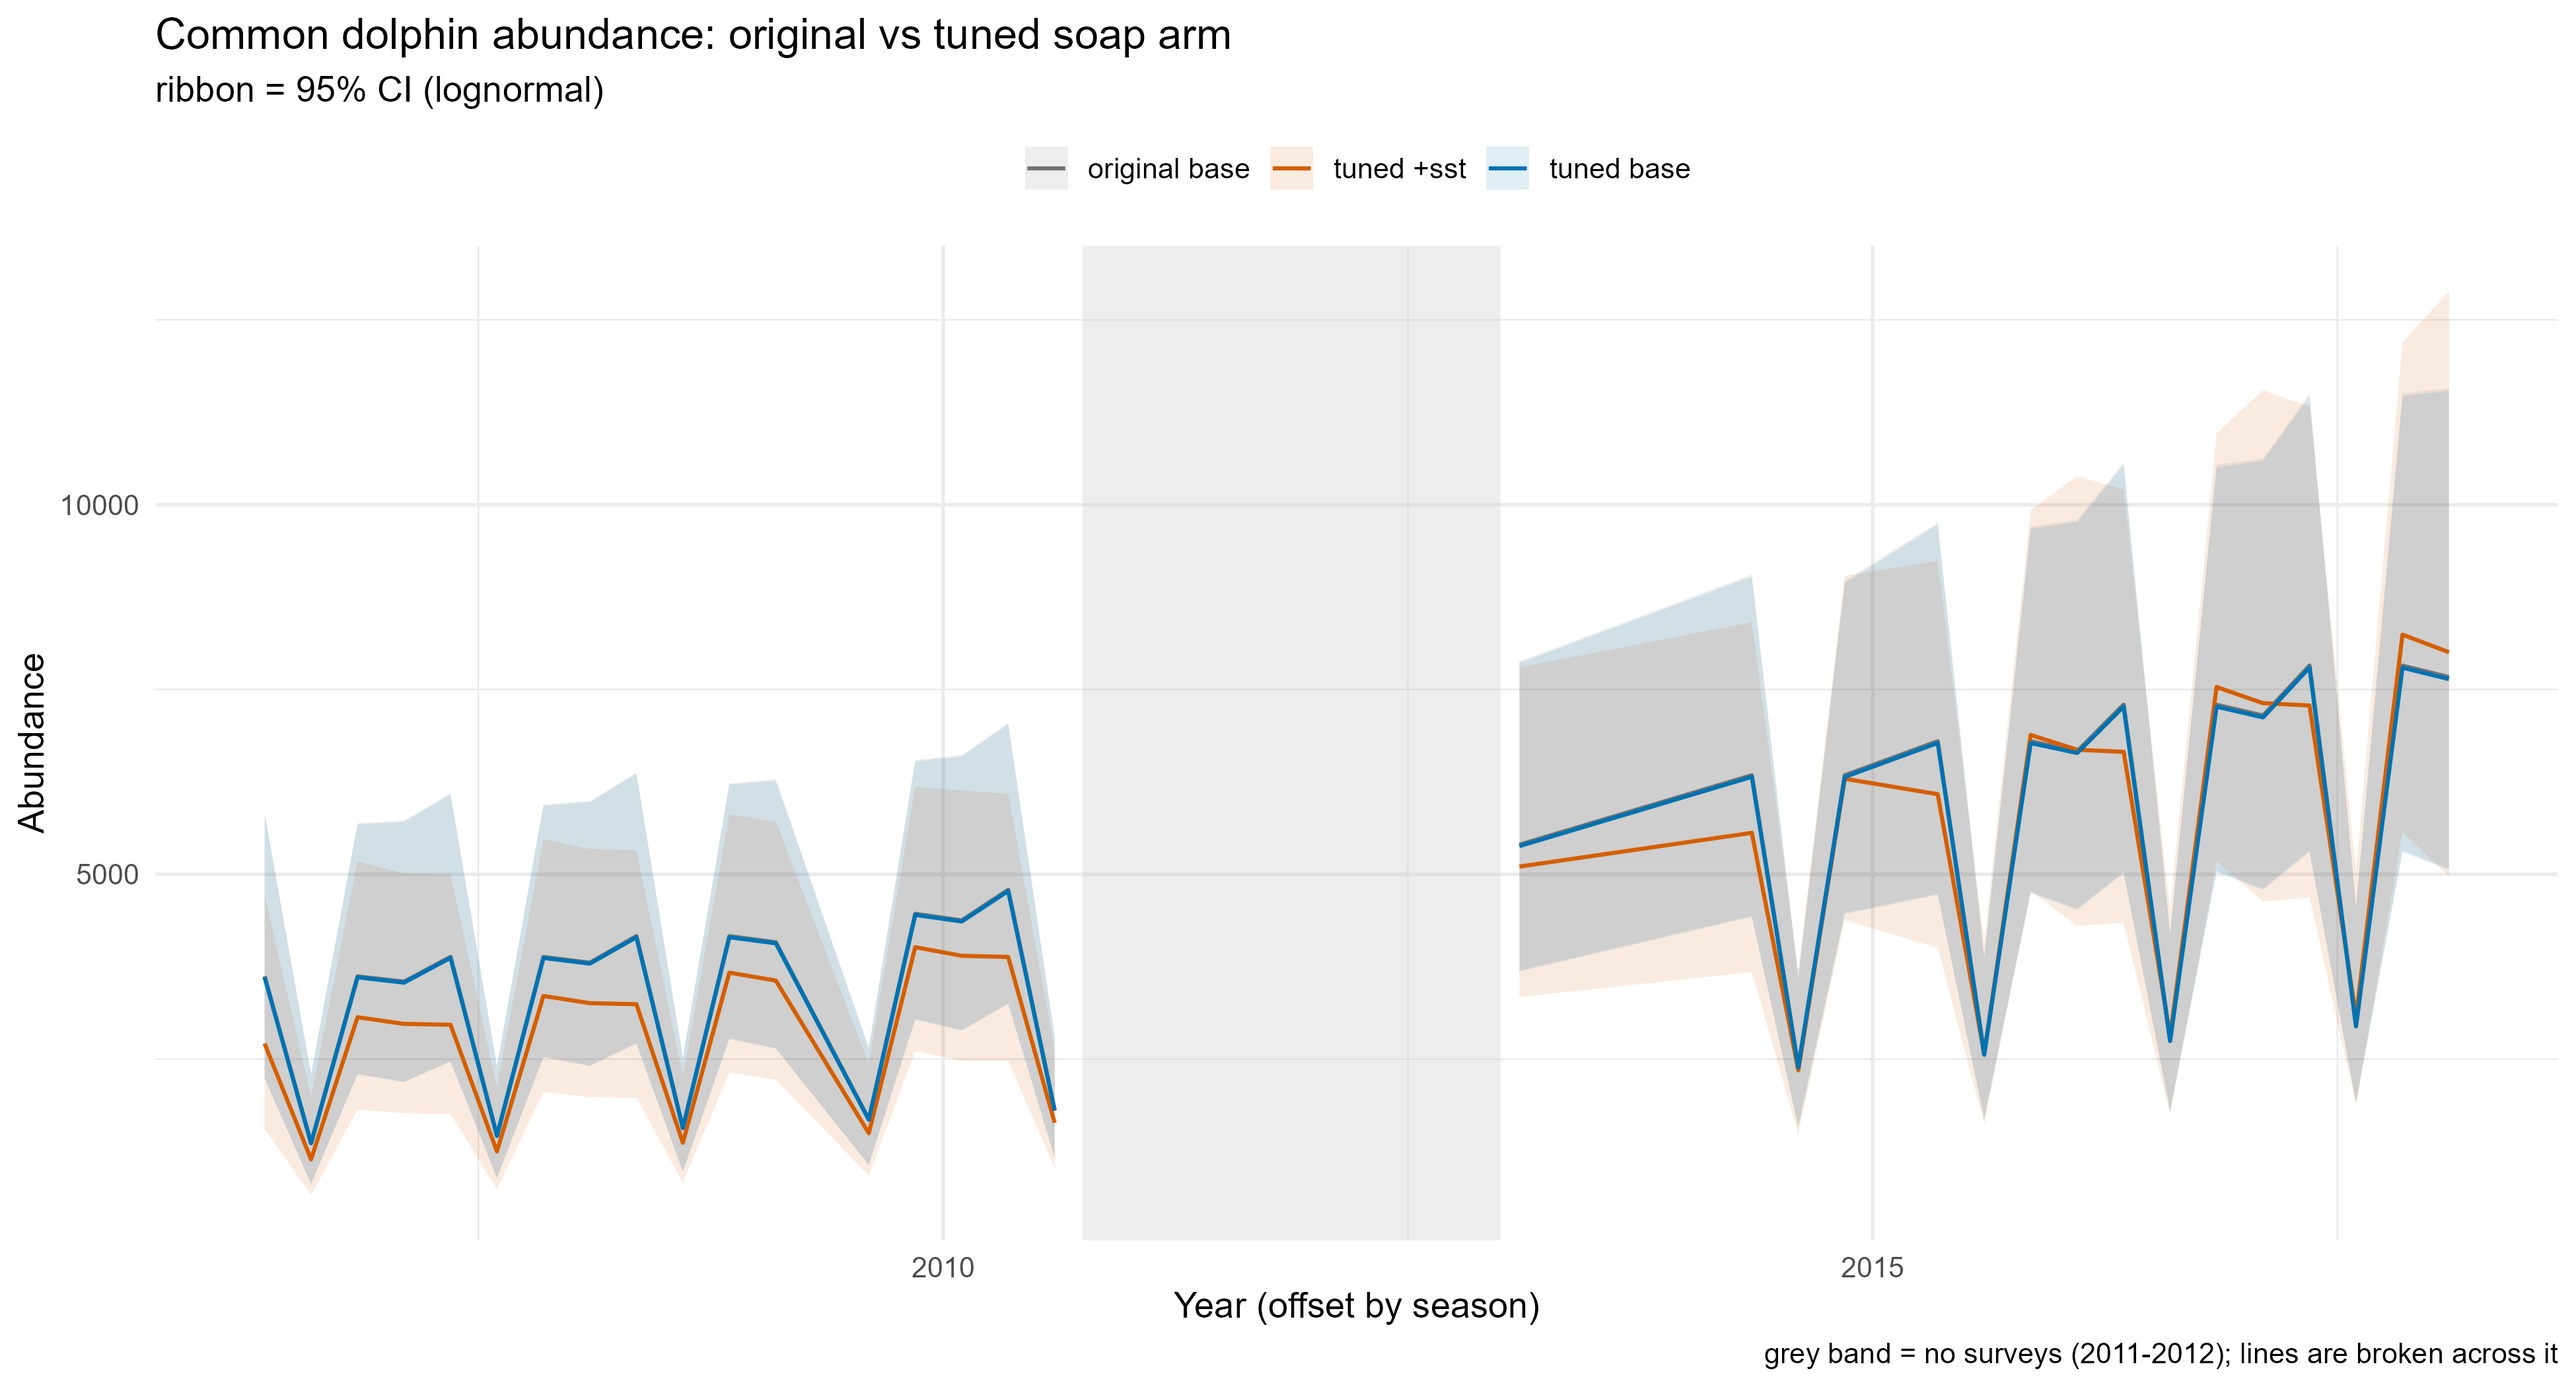
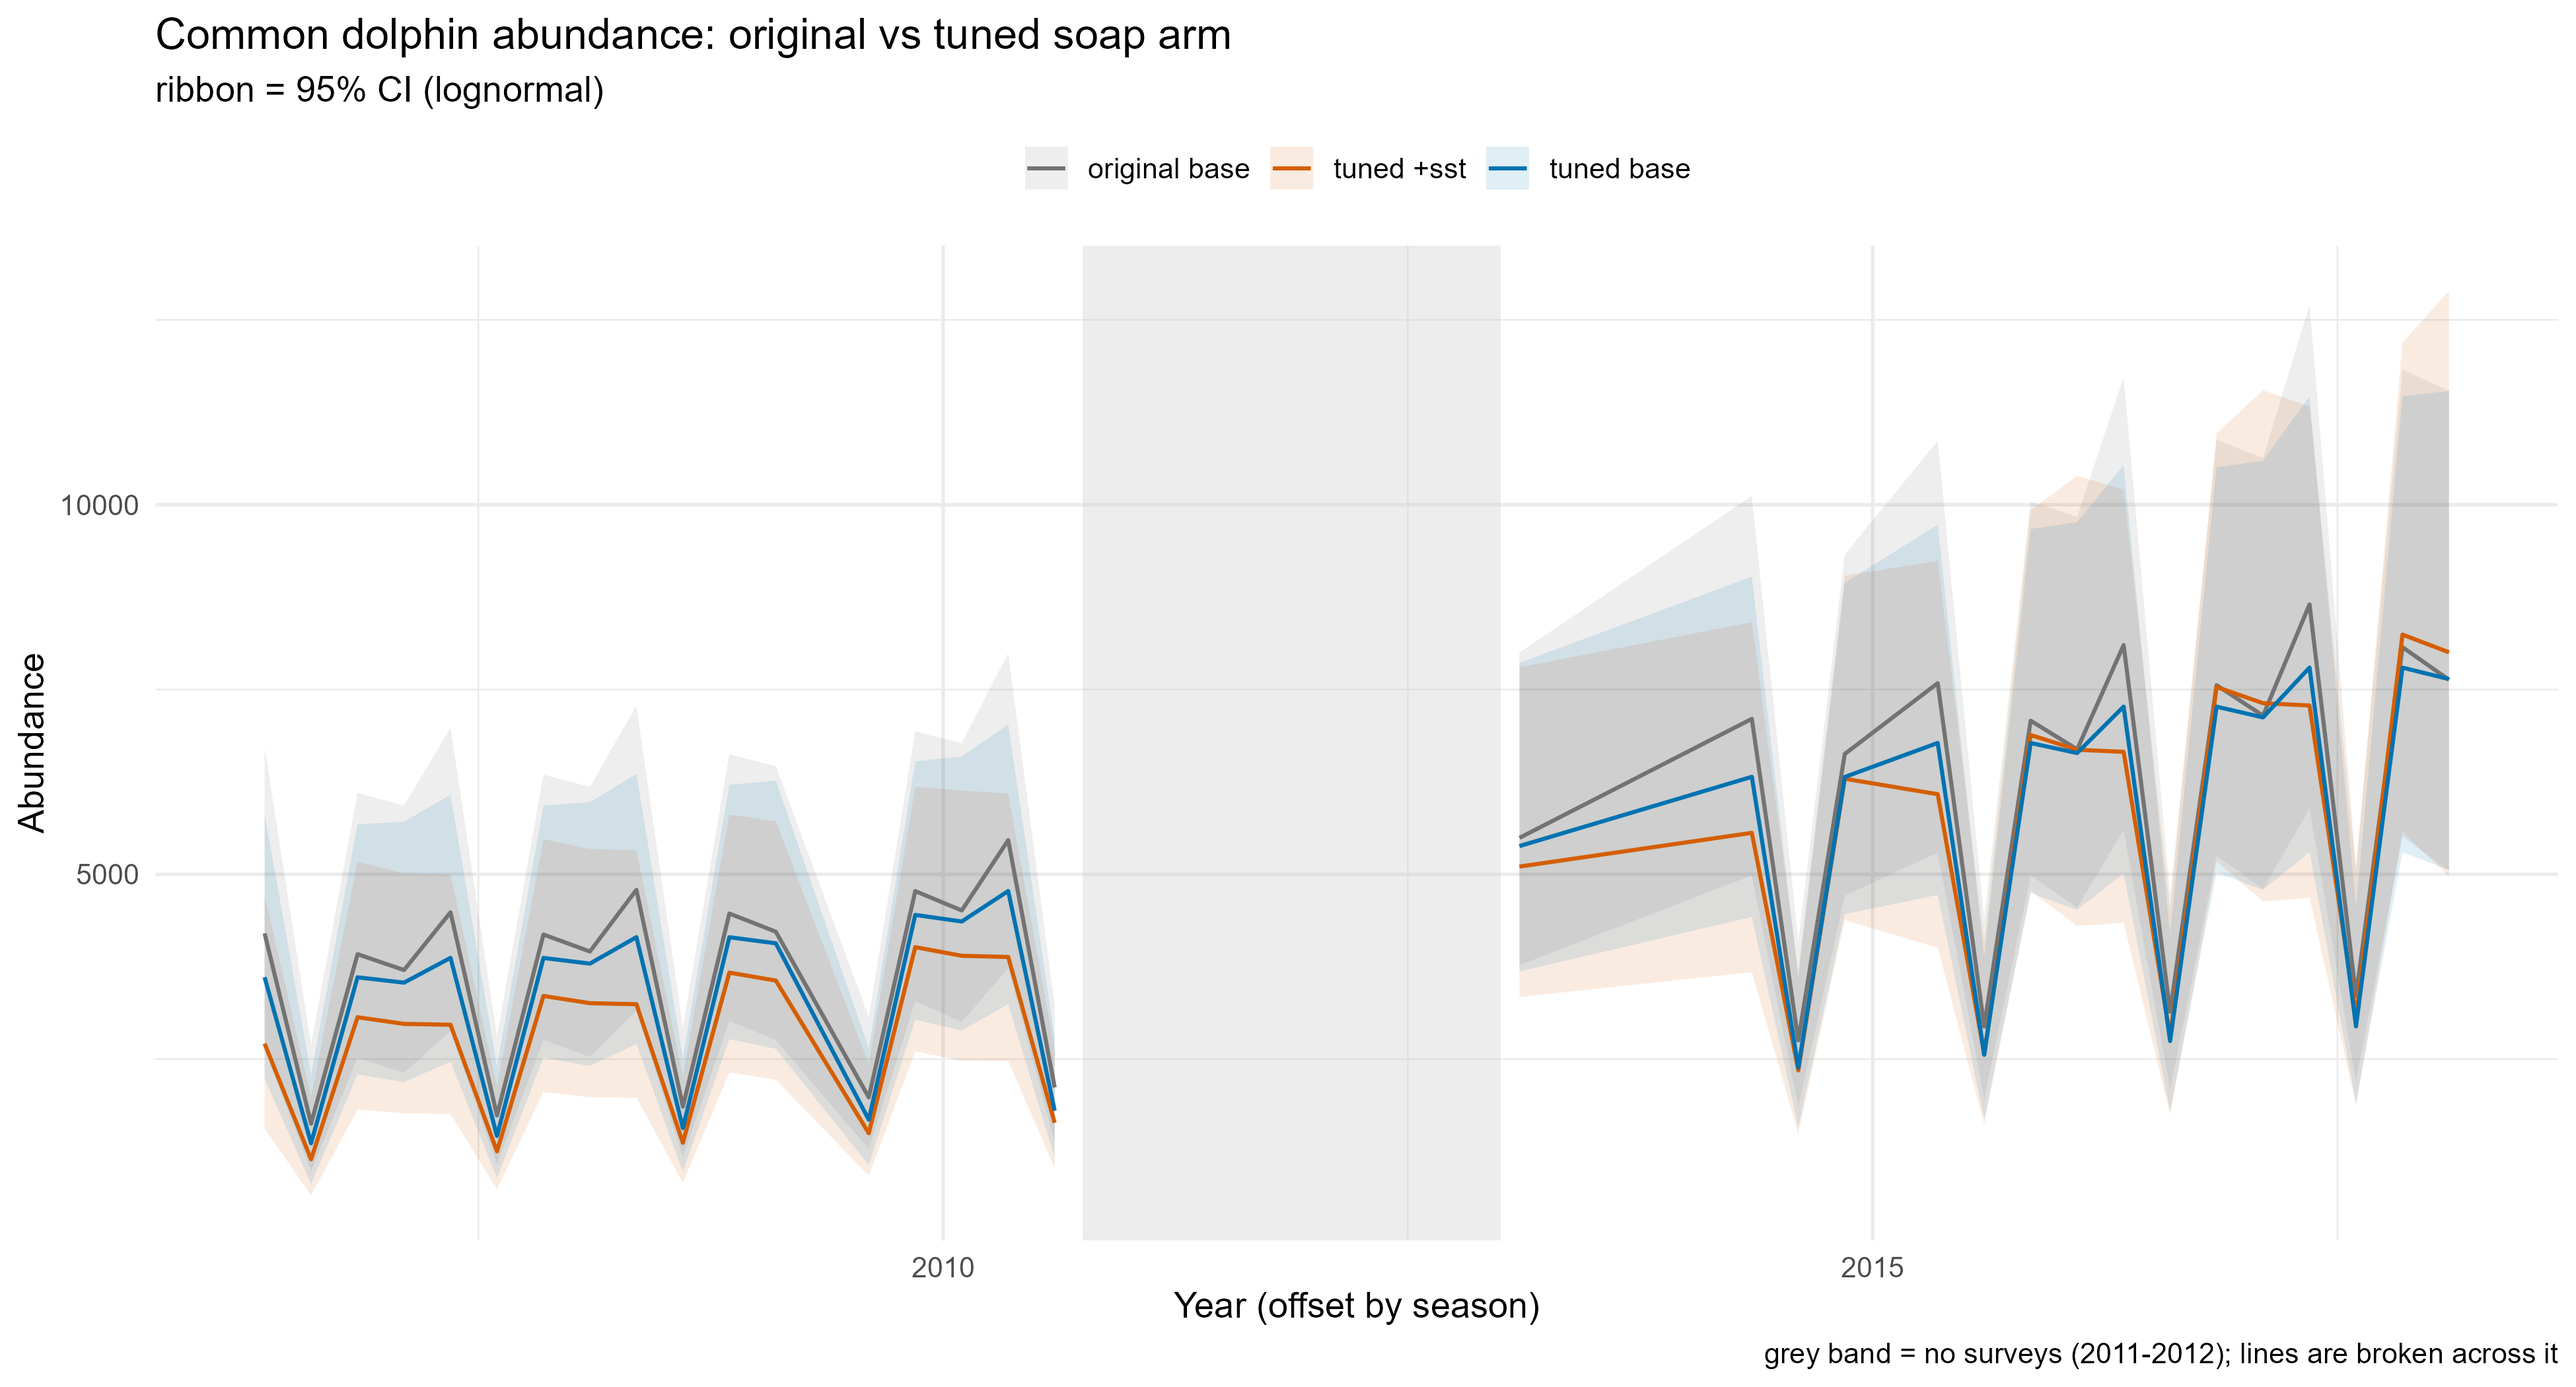
Draw the tuned-vs-original abundance figure from the decision record
UTIL_DSM_TunedArm_MapsAbundance_DD.R took its "original" series from the
pipeline's Abundance/DD_abundance_season_year_soap.csv. The pipeline has
fitted the tuned soap arm since the 2026-09-18 re-run, so the figure was
comparing the tuned arm with itself; the lines differed only by footprint
(1353 vs 1408 cells, ~0.35%). .ab_orig now reads the 41-knot original-arm
record in Abundance/decision_records/. A missing record now raises a
warning; before, the figure was dropped silently.

The script was re-run. DD_abundance_tuned_vs_original.png is now
byte-identical to the 2026-09-16 record (SHA256 92bdf0eb...). Every other
file it rewrote came back unchanged. The header notes in both DD scripts,
the README, the runbook addendum and the comment in section 5 of the
diagnostics draft now describe the fix.

diff --git a/analysis/RUNBOOK_clean_rerun_2026-09-17.md b/analysis/RUNBOOK_clean_rerun_2026-09-17.md
@@ -285,9 +285,13 @@ real comparison had survived only in the quarantine. ADB promoted it:
 They go in a subfolder, not beside the live files, because live scripts still
 write files with the same names in `Abundance/`. Both copies are SHA256-identical
 to the quarantine. `restore_dd_decision_records.ps1` now carries both, and a
-README in the folder records provenance and hashes. **Commit them before step
-11**: until they are tracked, deleting the quarantine leaves them as untracked
-working-tree files only.
+README in the folder records provenance and hashes. Committed in f44cf68
+(2026-09-30), so step 11 no longer threatens them.
+
+2026-09-30: the TunedArm script now reads `.ab_orig` from the record CSV. Its
+regenerated figure is byte-identical to the record PNG. The copy in
+`Abundance/` stays tuned-vs-tuned until the next `9_RegenerateStudies_DD.R`
+run.
 
 **Time**: seconds.
 
